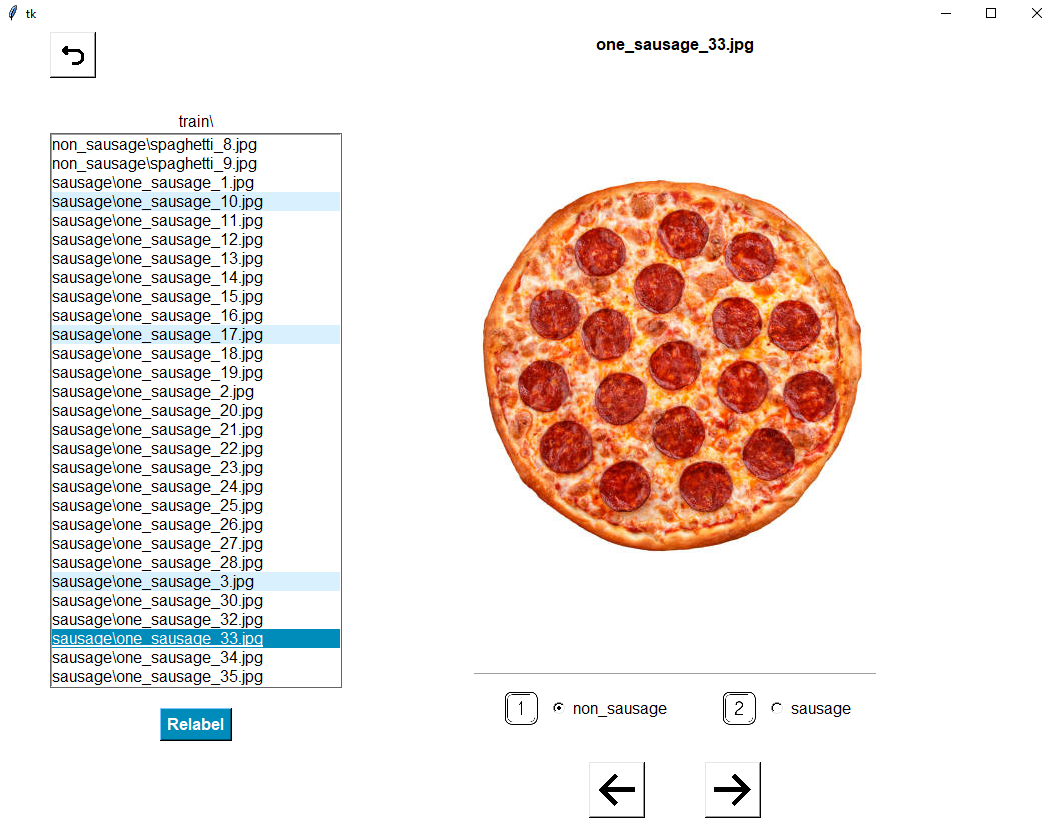
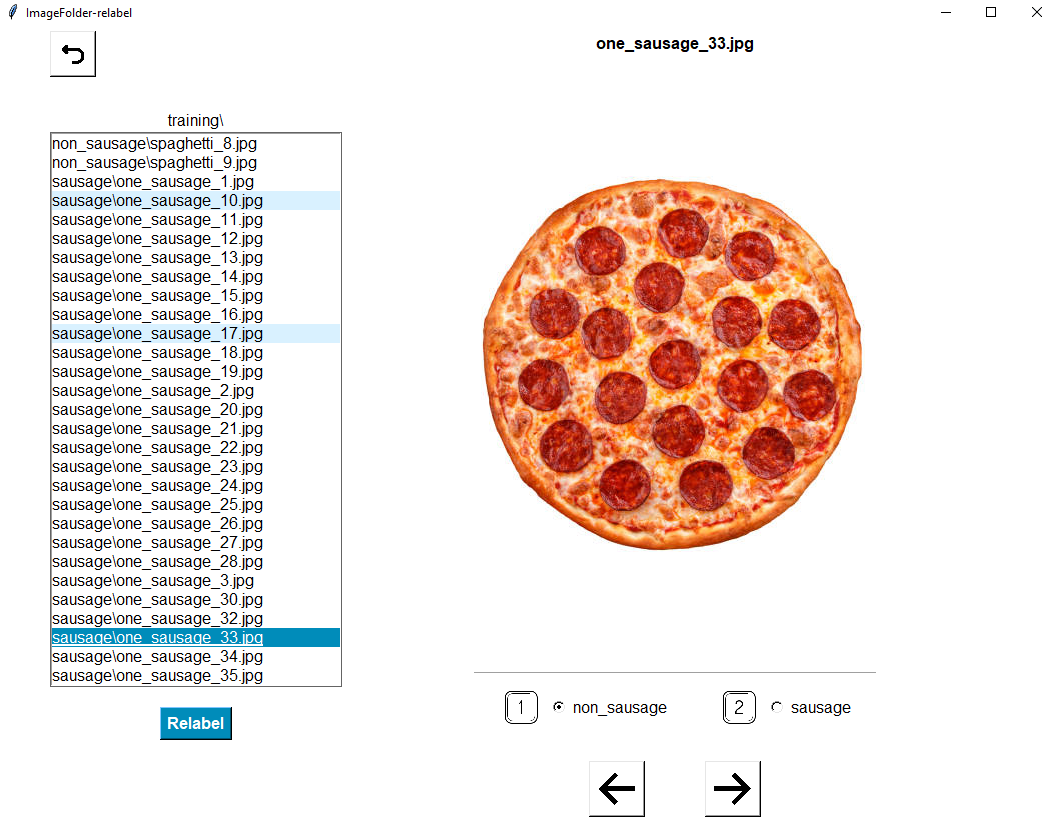
edit README.md

diff --git a/main.py b/main.py
@@ -323,4 +323,5 @@ class MainApp(tk.Tk):
 
 if __name__ == '__main__':
     app = MainApp()
+    app.title('ImageFolder-relabel')
     app.mainloop()

diff --git a/README.md b/README.md
@@ -57,6 +57,10 @@ Edit `image_queries.json` to amend the webscraping queries.
 
 ## Use
 
+Clone the repo and install the requirements using `pip install -r requirements.txt`.
+
+Run `python main.py`. 
+
 Choose which image directory you'd like to edit, then inspect the images. 
 1. Cycle through images using your arrow keys or by clicking the 'next' button, or scroll through image names and click on the 
 desired entry
